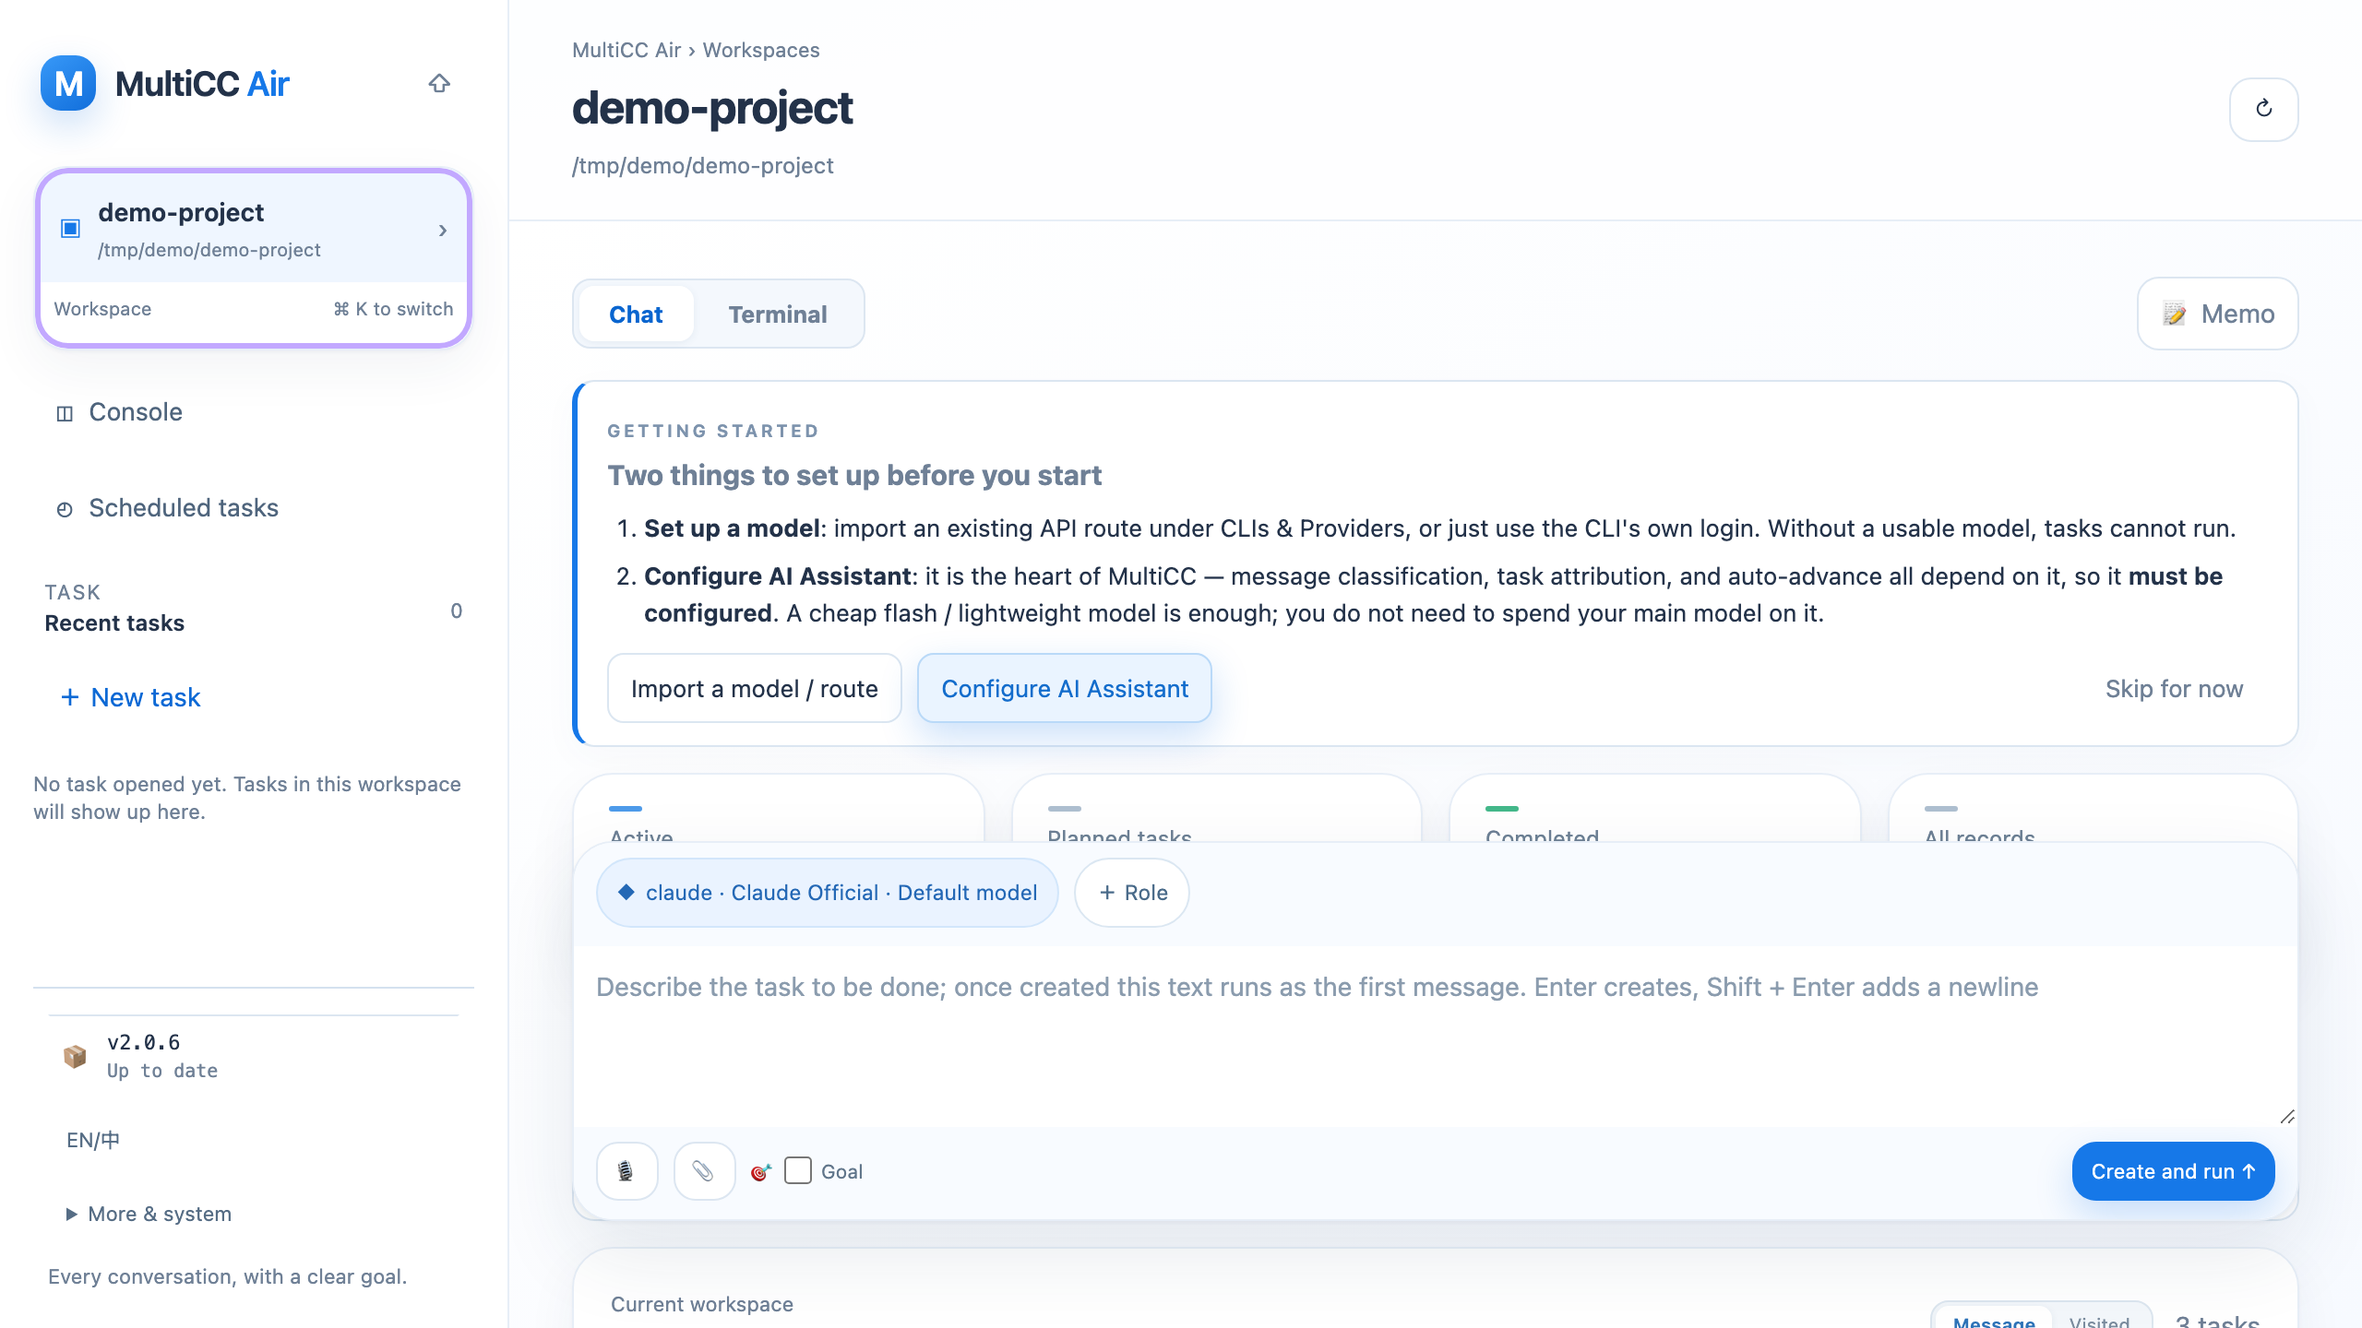
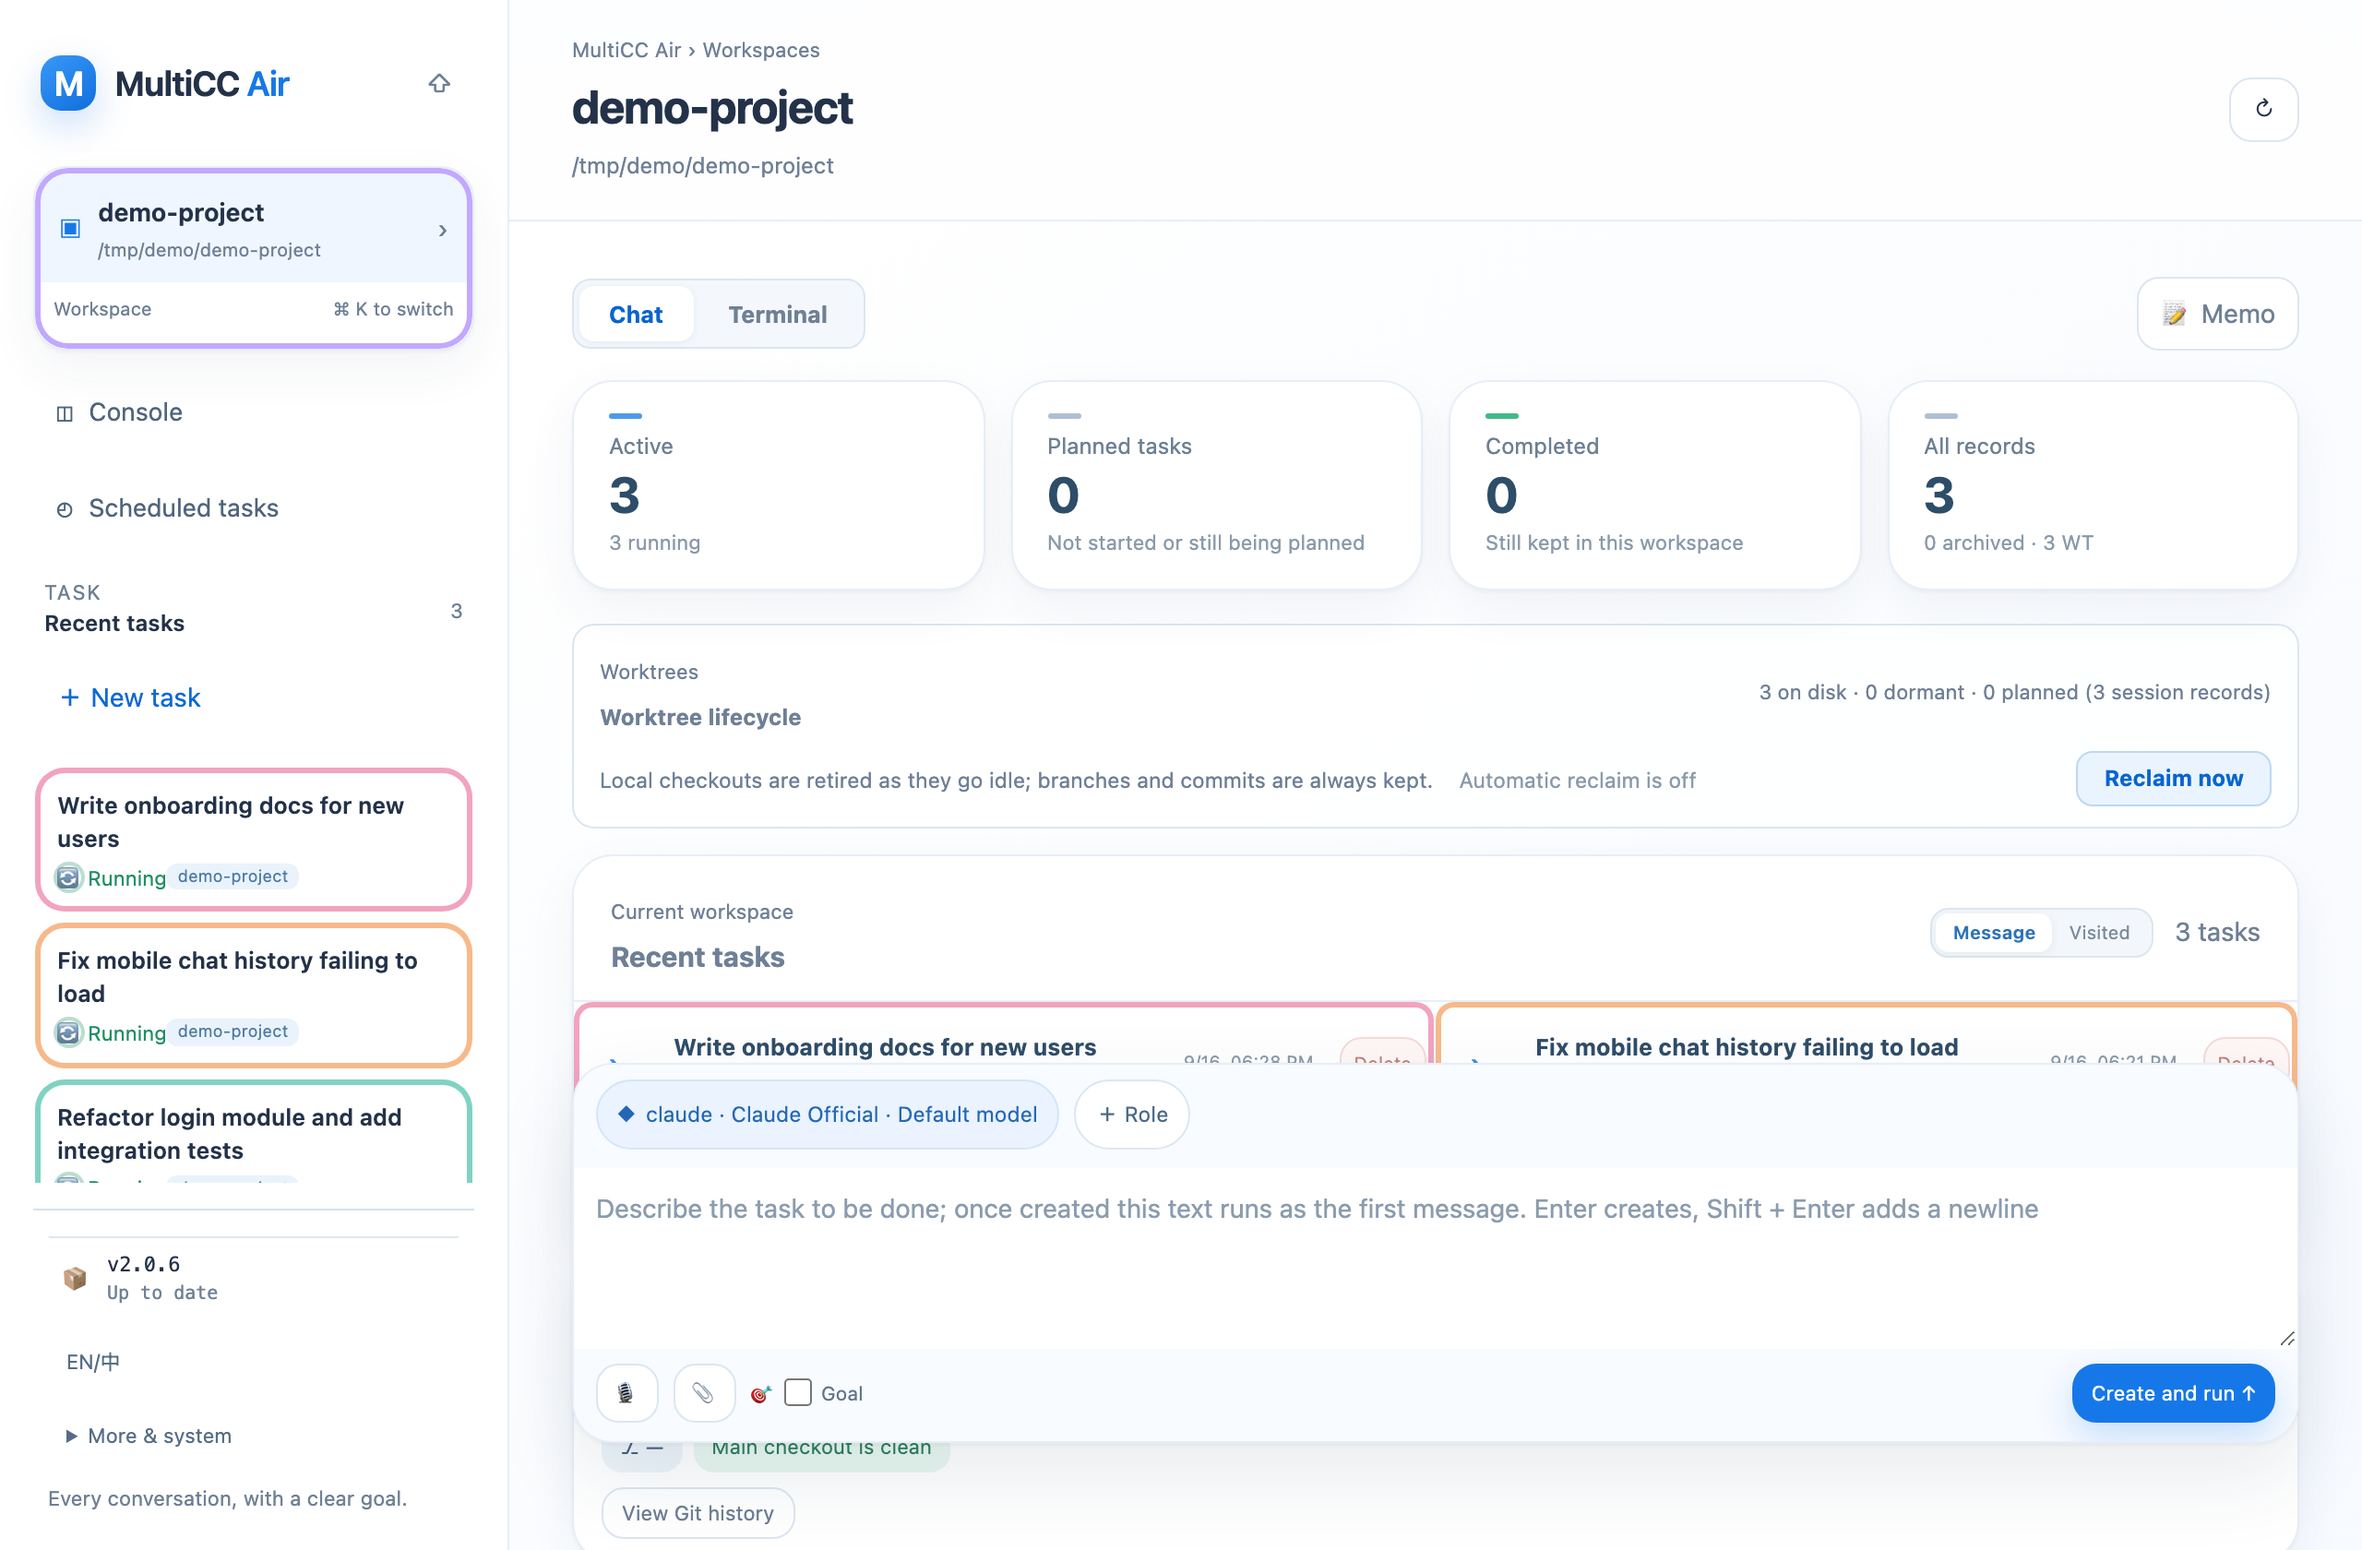
WIP: English README screenshots (sync checkpoint)

diff --git a/scripts/capture-readme-shots.js b/scripts/capture-readme-shots.js
@@ -9,7 +9,7 @@
 // ones live under docs/images/en/. Both are the same screens, so this script
 // renders the Air console against a fixture server (tests/helpers/cdp-harness)
 // that mocks every API the page reads, forces the English dictionary, seeds
-// English demo data, and captures at 1280x720 @2x (or 390x844 @2x for the
+// English demo data, and captures at 1280x840 @2x (a little taller than the Chinese originals so the sticky composer does not cover the task stats) (or 390x844 @2x for the
 // phone shot) — the same geometry as the Chinese originals.
 //
 // Nothing here talks to a live MultiCC host: no token, no real path, no
@@ -22,7 +22,7 @@ const { createCdpHarness, findChromeBinary } = require('../tests/helpers/cdp-har
 const OUT_DIR = path.resolve(__dirname, '..', 'docs', 'images', 'en');
 const PUBLIC_DIR = path.resolve(__dirname, '..', 'public');
 
-const DESKTOP = { width: 1280, height: 720, deviceScaleFactor: 2, mobile: false };
+const DESKTOP = { width: 1280, height: 840, deviceScaleFactor: 2, mobile: false };
 const PHONE = { width: 390, height: 844, deviceScaleFactor: 2, mobile: true };
 
 // ── fixture plumbing ──────────────────────────────────────────────────────
@@ -241,6 +241,18 @@ function apiRoutes(options = {}) {
 
 const sleep = ms => new Promise(resolve => setTimeout(resolve, ms));
 
+// harness 的 waitFor 超时只回 null；截图场景里那等于悄悄拍下一张错的画面。
+// 这里统一包一层：等不到就带着表达式报错。
+function strict(page) {
+  const waitFor = page.waitFor.bind(page);
+  page.waitFor = async (expression, options) => {
+    const value = await waitFor(expression, { timeoutMs: 10000, ...(options || {}) });
+    if (!value) throw new Error(`timed out waiting for: ${expression}`);
+    return value;
+  };
+  return page;
+}
+
 // Demo state that lives in the browser rather than on the host: the language,
 // and the list of tasks this browser has opened (the sidebar's "Recent tasks"
 // is exactly that list plus unread results — see air-task-notify.js).
@@ -249,11 +261,11 @@ const BROWSER_STATE = {
   'air:recent-tasks': DEMO_TASKS.map(task => task.id),
 };
 
-async function openEnglish(page, query = '') {
-  await page.send('Emulation.setDeviceMetricsOverride', DESKTOP);
+async function openEnglish(page, query = '', metrics = DESKTOP) {
+  await page.send('Emulation.setDeviceMetricsOverride', metrics);
   await page.navigate('/__lang');
   await page.evaluate(`(() => {
-    ${Object.entries(BROWSER_STATE).map(([key, value]) => `localStorage.setItem(${JSON.stringify(key)}, ${JSON.stringify(JSON.stringify(value))});`).join('\n    ')}
+    ${Object.entries(BROWSER_STATE).map(([key, value]) => `localStorage.setItem(${JSON.stringify(key)}, ${JSON.stringify(typeof value === 'string' ? value : JSON.stringify(value))});`).join('\n    ')}
     return document.documentElement.lang;
   })()`);
   await page.navigate(`/air${query}`);
@@ -289,8 +301,10 @@ async function shoot(page, file) {
 const SHOTS = {
   // The workspace home: directory card, three running tasks, task stats and the
   // new-task composer. Same screen as the Chinese air-tasks.png.
+  // The AI Assistant is configured here, so the first-run card is gone and the
+  // shot is about the tasks (air-first-run.png is the unconfigured twin).
   'air-tasks': {
-    routes: () => ({ ...staticRoutes(), ...apiRoutes() }),
+    routes: () => ({ ...staticRoutes(), ...apiRoutes({ auxConfig: auxConfig(true) }) }),
     async capture(page) {
       await page.send('Emulation.setDeviceMetricsOverride', DESKTOP);
       await openEnglish(page, `?dir=${DEMO_DIR.id}`);
@@ -335,7 +349,7 @@ const SHOTS = {
     routes: () => ({ ...staticRoutes(), ...apiRoutes() }),
     async capture(page) {
       await page.send('Emulation.setDeviceMetricsOverride', PHONE);
-      await openEnglish(page, `?dir=${DEMO_DIR.id}`);
+      await openEnglish(page, `?dir=${DEMO_DIR.id}`, PHONE);
       await page.waitFor(`document.querySelector('#task-title').textContent === 'demo-project'`);
       await settle(page);
       // Scroll past the header so the setup card, the task stats and the recent
@@ -402,7 +416,7 @@ async function main() {
       screenshotDir: path.join(require('node:os').tmpdir(), 'multicc-readme-shots'),
     });
     try {
-      const file = await shot.capture(harness);
+      const file = await shot.capture(strict(harness));
       console.log(`${name}: ${file}`);
     } finally {
       await harness.close();

diff --git a/README.md b/README.md
@@ -101,7 +101,7 @@ The picker shows which CLIs are installed, which already hold a saved session, a
 
 `/air` is MultiCC's home screen — both `/` and the old `/manage` now redirect there. Tasks, not roles, are the unit of work: you describe what you want done, and each task carries its own bound session, worktree, and transcript.
 
-![The Air console: directories and tasks at a glance](docs/images/air-tasks.png)
+![The Air console: directories and tasks at a glance](docs/images/en/air-tasks.png)
 
 - **Directory home** — every registered repo with its tasks and sessions in one list
 - **New-task composer** — describe a goal, pick a CLI / line / model (it remembers your last choice), and the task spins up a bound session
@@ -246,17 +246,17 @@ Open **<http://localhost:3000>** — you land on the **Air console** (`/air`). I
 1. On `/air`, **add a directory** — point it at any git repo.
 2. First run: the **setup card** walks you through preparing a model (import a provider from `cc-switch`, or just use a CLI's own login) and configuring the **AI Assistant** — a lightweight flash-tier model is enough.
 
-   ![The first-run setup card on /air](docs/images/air-first-run.png)
+   ![The first-run setup card on /air](docs/images/en/air-first-run.png)
 3. Describe a goal in the **new-task composer** — *"summarise what this project does and list the three riskiest files."* — and create the task. The composer remembers your most recent CLI, line, and model.
 
-   ![The new-task composer with the AI configuration pill](docs/images/air-new-task.png)
+   ![The new-task composer with the AI configuration pill](docs/images/en/air-new-task.png)
 4. The task binds a chat session and gets to work. Open it to watch the transcript; when it answers, click the **CLI badge in the chat header** and pick a different CLI, then send a follow-up: *"you're a different model now — do you agree with the previous assessment?"*
 
 The second CLI answers with full awareness of the conversation, on the same branch and worktree, and tells you it is working from a handoff checkpoint. Switch back and the first CLI resumes its own session.
 
 Then open the same URL on your phone, or install the [Flutter app](docs/installation.md#build-the-flutter-app) — the task is right there, mid-conversation.
 
-![MultiCC on a phone-width screen](docs/images/air-mobile.png)
+![MultiCC on a phone-width screen](docs/images/en/air-mobile.png)
 
 ### 4. Keep it up to date
 
@@ -362,9 +362,9 @@ keeps the full output and offers a force retry.
 </td></tr>
 </table>
 
-![CLI and provider settings in the Air console](docs/images/air-provider.png)
+![CLI and provider settings in the Air console](docs/images/en/air-provider.png)
 
-![The AI Assistant page in the Air console](docs/images/aux-console.png)
+![The AI Assistant page in the Air console](docs/images/en/aux-console.png)
 
 **→ Every feature in detail: [Features](docs/features.md)**
 

diff --git a/docs/images/README.md b/docs/images/README.md
@@ -18,6 +18,17 @@ them under these exact paths:
 | `aux-console.png` | The AI Assistant (aux) console page. | Features |
 | `air-mobile.png` | MultiCC on a phone-width screen (the `/air` directory home in a 390px viewport). | Quick Start, mobile step |
 
+## English captures (`docs/images/en/`)
+
+`README.md` (English) references the English copies in `docs/images/en/`;
+`README.zh.md` keeps the Chinese captures above. The English set is generated
+deterministically against a mocked fixture — no live server, no secrets:
+
+```bash
+node scripts/capture-readme-shots.js            # all six
+node scripts/capture-readme-shots.js air-mobile # a single shot
+```
+
 ## Still wanted
 
 | File | What it should show | Suggested capture |
